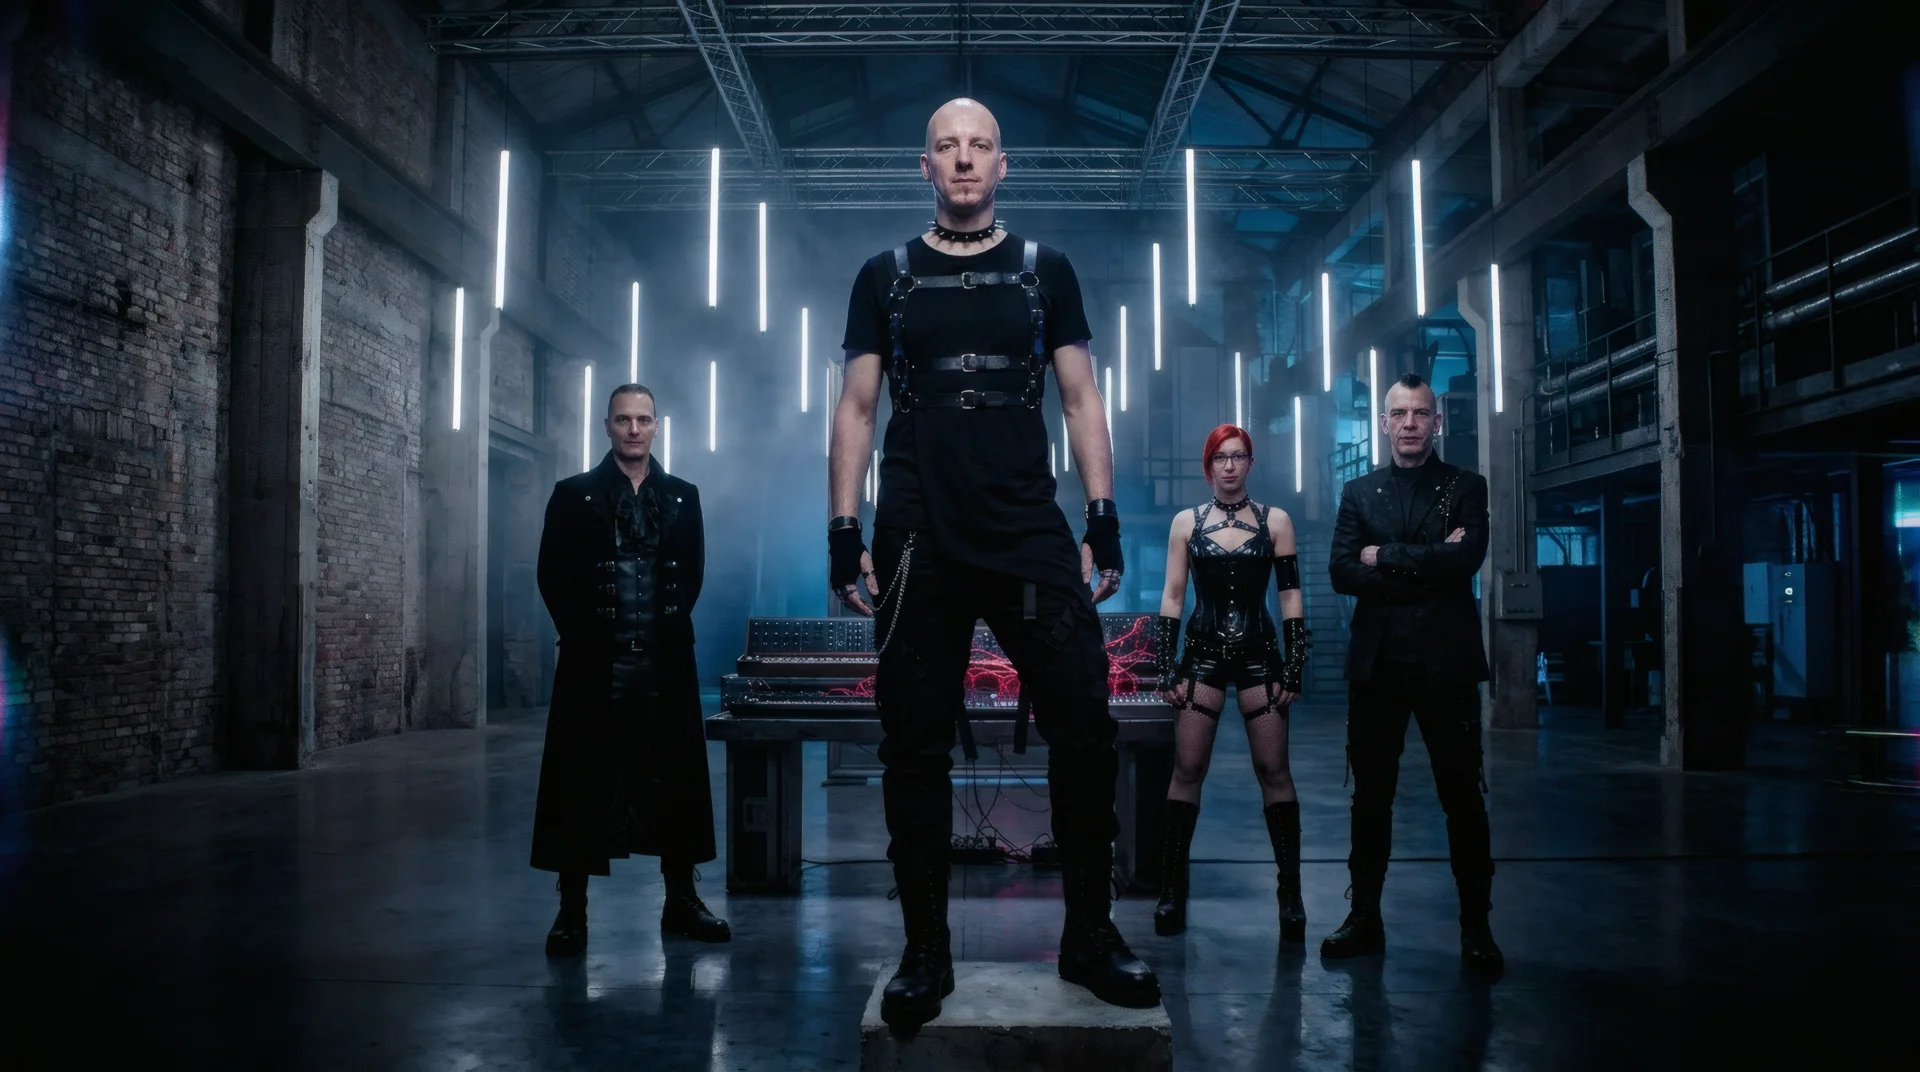
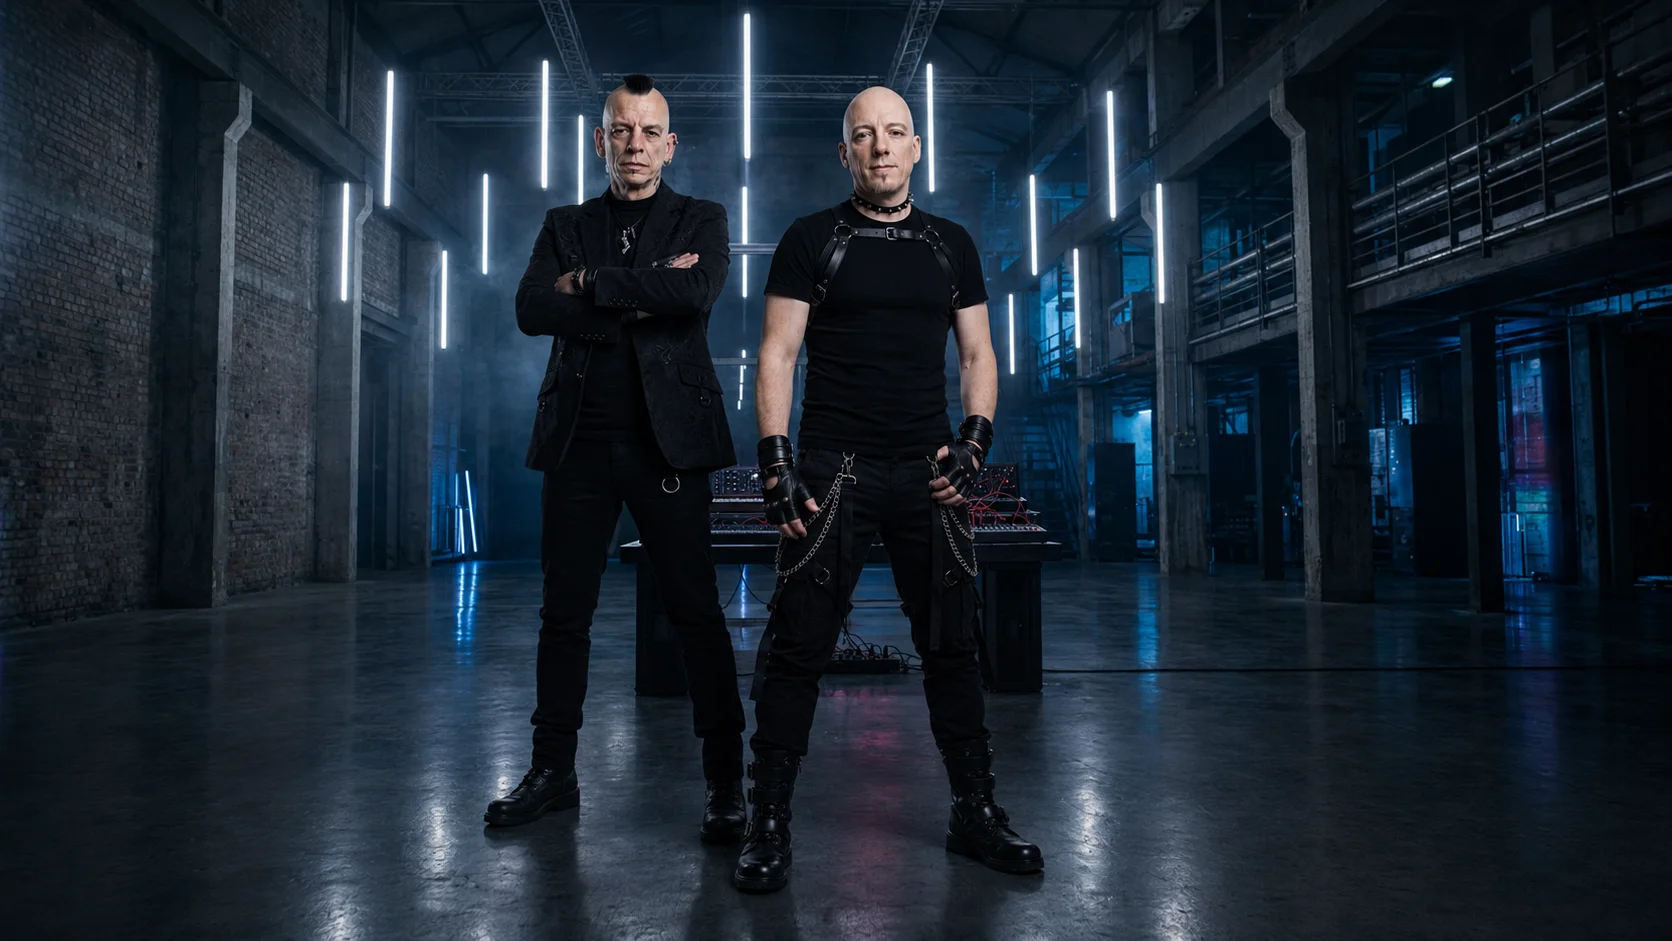
update of band structure and event cards

diff --git a/styles/styles.css b/styles/styles.css
@@ -1640,10 +1640,6 @@ html {
   font-size: clamp(.85rem, 1.6vw, 1rem);
 }
 
-.about-content--closing {
-  margin-top: 1.5em;
-}
-
 .about-content p {
   margin: 0 0 1em;
 }
@@ -1653,23 +1649,24 @@ html {
 }
 
 .about-fans {
-  margin-top: 1.5em !important;
-  padding-top: 1.25em;
-  border-top: 1px solid rgba(255,255,255,.08);
-  color: rgba(232,230,242,.5) !important;
-  font-size: .82rem !important;
+  max-width: 680px;
+  margin: 1.6em auto 0;
+  color: rgba(232,230,242,.55);
+  font-size: .8rem;
   letter-spacing: .06em;
+  text-align: center;
+  line-height: 1.7;
 }
 
 /* --------- BAND MEMBERS --------- */
 .members {
   max-width: 680px;
   margin: 1.5em auto 0;
-  text-align: left;
+  text-align: center;
   background: rgba(12,12,18,.6);
   border: 1px solid rgba(255,255,255,.08);
   border-radius: 14px;
-  padding: 20px 32px 24px;
+  padding: 24px 32px 22px;
   backdrop-filter: blur(6px);
 }
 
@@ -1678,66 +1675,65 @@ html {
   letter-spacing: .16em;
   text-transform: uppercase;
   color: var(--muted);
-  margin: 0 0 .75em;
-  padding-top: 0.5em;
+  margin: 0 0 1.4em;
 }
 
 .members__grid {
-  display: grid;
-  grid-template-columns: 1fr 1fr;
-  gap: 8px;
+  display: flex;
+  flex-wrap: wrap;
+  justify-content: center;
+  align-items: flex-start;
+  gap: 28px 36px;
+  margin: 0 auto;
 }
 
-.member-card {
+.member {
+  margin: 0;
   display: flex;
   flex-direction: column;
-  gap: 3px;
-  padding: 10px 12px;
-  background: rgba(12,12,18,.55);
-  border-left: 2px solid rgba(107,77,242,.45);
-  border-top: 1px solid rgba(255,255,255,.05);
-  border-right: 1px solid rgba(255,255,255,.05);
-  border-bottom: 1px solid rgba(255,255,255,.05);
-  border-radius: 0 6px 6px 0;
-  text-align: left;
-}
-
-.member-card--lead {
-  grid-column: 1 / -1;
-  border-left-color: var(--accent);
-  background: rgba(107,77,242,.08);
-  flex-direction: row;
   align-items: center;
-  gap: 14px;
+  gap: 12px;
+  width: 180px;
 }
 
-.member-card__name {
-  font-size: .76rem;
+.member__photo {
+  width: 180px;
+  height: 225px;
+  object-fit: cover;
+  border-radius: 8px;
+  border: 1px solid rgba(107,77,242,.4);
+  box-shadow: 0 0 0 1px rgba(0,0,0,.5), 0 8px 18px -10px rgba(107,77,242,.3);
+}
+
+.member__caption {
+  display: flex;
+  flex-direction: column;
+  gap: 6px;
+  text-align: center;
+}
+
+.member__name {
+  font-size: .95rem;
   font-weight: 700;
-  letter-spacing: .08em;
+  letter-spacing: .14em;
   text-transform: uppercase;
-  color: rgba(107,77,242,.9);
-  white-space: nowrap;
-}
-
-.member-card--lead .member-card__name {
   color: var(--accent);
-  font-size: .82rem;
 }
 
-.member-card__role {
-  font-size: .71rem;
+.member__role {
+  font-size: .72rem;
   color: var(--muted);
-  line-height: 1.45;
+  letter-spacing: .03em;
+  line-height: 1.55;
 }
 
 .members__disclaimer {
-  margin: 10px 0 0;
-  font-size: .68rem;
+  margin: 20px 0 0;
+  font-size: .72rem;
   color: var(--muted);
-  opacity: .6;
+  opacity: .85;
   font-style: italic;
-  text-align: right;
+  text-align: center;
 }
 
 .about-press-quote {

diff --git a/index.html b/index.html
@@ -517,36 +517,34 @@
             <p>Schwarzes Fragment is the dark electro project of Martin, composer, synthesizer player, programmer, and lyricist. It started the way all good stories begin: with a broken keyboard rescued from a relative before the year 2003. What began as raw, wordless experiments found its true voice in 2008, when the project was reborn with club-ready rhythms, melodic synth lines, and lyrics forged from fragments of poetry and inner conflict.</p>
             <p>The debut album <em>Seelenkiller</em> entered the Top 10 of the German Electronic Webcharts in December 2008. A year later, Schwarzes Fragment won <strong>6th place worldwide</strong> at the Sonic Seducer Battle of the Bands, a result that opened festival stages, including Elekktroshokk, sharing the bill with Das Ich, Welle:Erdball, Klangstabil, and many more.</p>
             <p>The music blends dark electro, EBM, darkwave, and synth-pop into something vivid, melodic, and built for the dancefloor. Based between Leipzig and Munich, the project has been active across the German dark scene for over two decades.</p>
-            <p>Live, Schwarzes Fragment performs as a full band: <strong>Dirk</strong> on synthesizer, <strong>Loki</strong> adding his unmistakable touch on a vintage keytar, and <strong>Kathy</strong> as dancer and light show artist, turning every performance into a full sensory experience.</p>
+            <p>Live, Schwarzes Fragment performs together with <strong>Dirk</strong> on synthesizer.</p>
           </div>
 
           <!-- BAND MEMBERS -->
           <div class="members">
             <p class="members__title">Live Lineup</p>
+
             <div class="members__grid">
-              <div class="member-card member-card--lead">
-                <span class="member-card__name">Martin</span>
-                <span class="member-card__role">Mastermind · Composer · Lyrics · Production · Design</span>
-              </div>
-              <div class="member-card">
-                <span class="member-card__name">Kathy</span>
-                <span class="member-card__role">Dancer · LED &amp; Laser Light Show</span>
-              </div>
-              <div class="member-card">
-                <span class="member-card__name">Dirk</span>
-                <span class="member-card__role">Synthesizer</span>
-              </div>
-              <div class="member-card">
-                <span class="member-card__name">Loki</span>
-                <span class="member-card__role">Keytar</span>
-              </div>
+              <figure class="member">
+                <img class="member__photo" src="images/band/martin.webp" alt="Martin – Mastermind of Schwarzes Fragment" loading="lazy" width="800" height="1000">
+                <figcaption class="member__caption">
+                  <span class="member__name">Martin</span>
+                  <span class="member__role">Mastermind · Composer · Lyrics · Production · Design</span>
+                </figcaption>
+              </figure>
+              <figure class="member">
+                <img class="member__photo" src="images/band/dirk.webp" alt="Dirk on synthesizer" loading="lazy" width="800" height="1000">
+                <figcaption class="member__caption">
+                  <span class="member__name">Dirk</span>
+                  <span class="member__role">Synthesizer Live Support</span>
+                </figcaption>
+              </figure>
             </div>
+
             <p class="members__disclaimer">Lineup subject to change per event.</p>
           </div>
 
-          <div class="about-content about-content--closing">
-            <p class="about-fans">For fans of: Apoptygma Berzerk &bull; Blutengel &bull; Cephalgy &bull; Solitary Experiments &bull; Terminal Choice</p>
-          </div>
+          <p class="about-fans">For fans of: Apoptygma&nbsp;Berzerk &bull; Blutengel &bull; Cephalgy &bull; Solitary&nbsp;Experiments &bull; Terminal&nbsp;Choice</p>
         </div>
       </section>
 
@@ -585,7 +583,7 @@
               </div>
               <div class="highlights__row">
                 <dt>Festival appearances</dt>
-                <dd>Elekktroshokk Festival</dd>
+                <dd>Elekktroshokk Festival &bull; Dark Affair</dd>
               </div>
             </dl>
           </div>